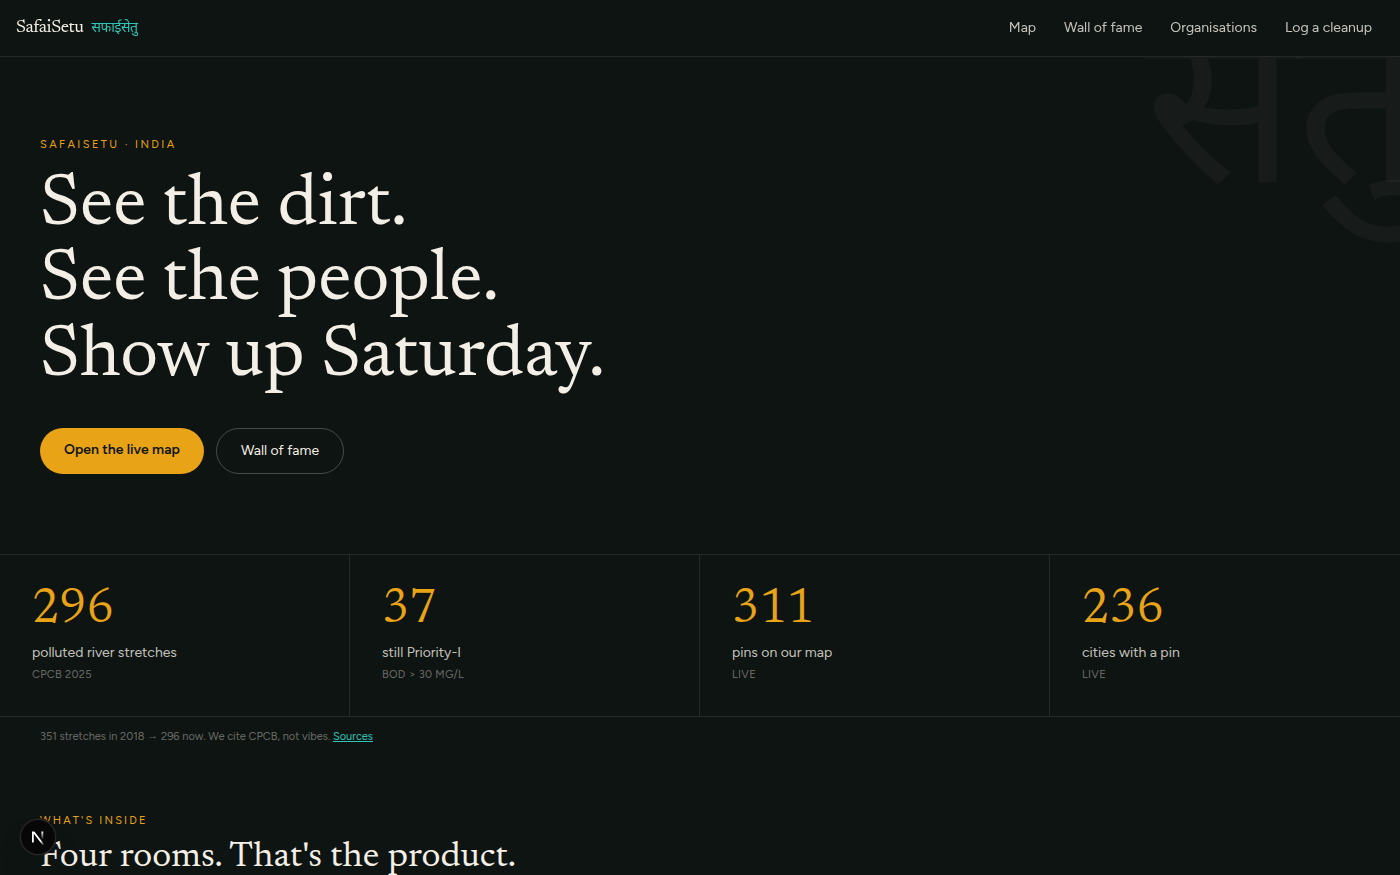
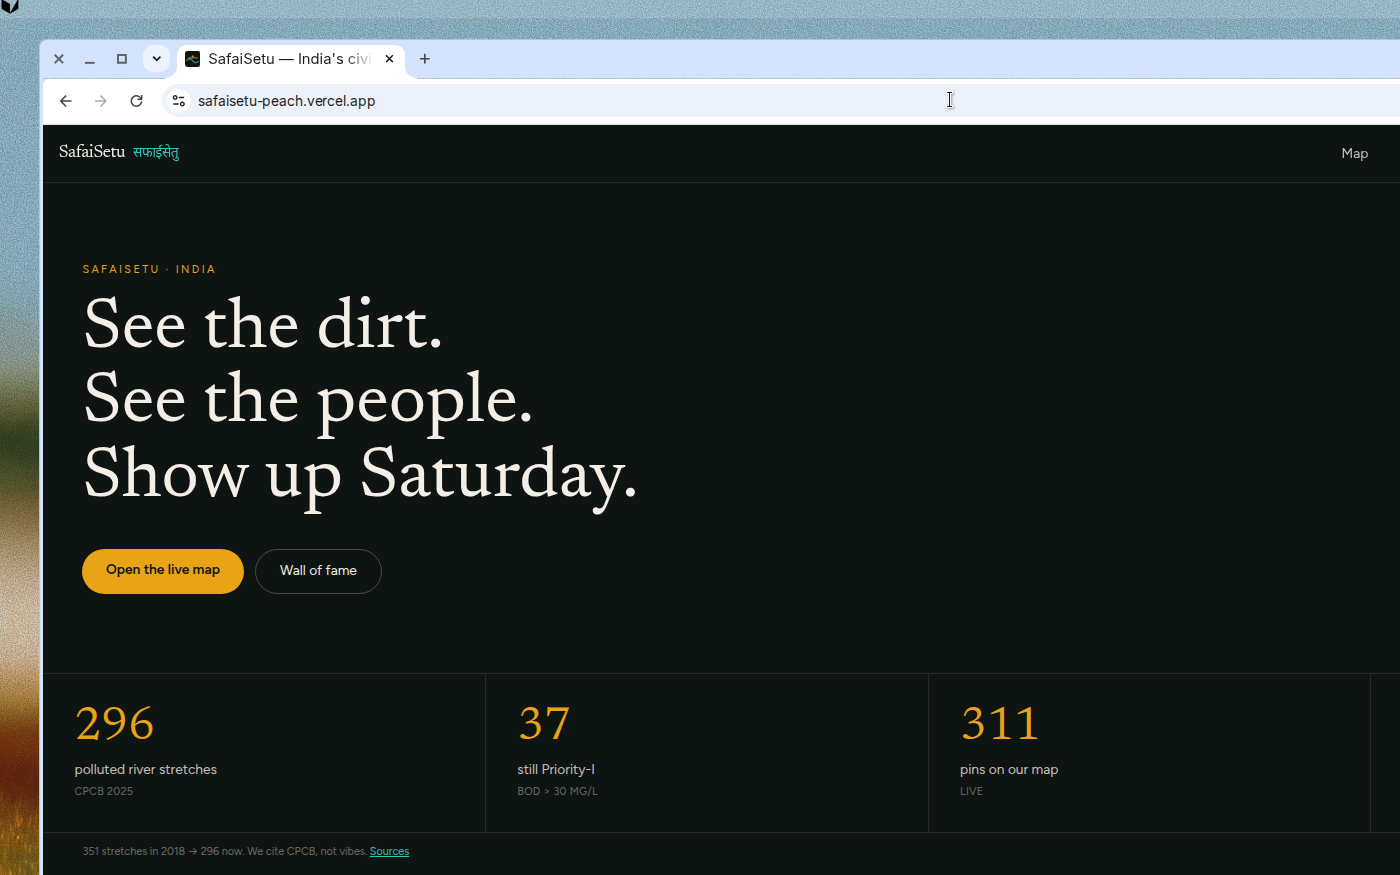
Update SafaiSetu to Live status with fresh deployment (#4)
- Set liveUrl to https://safaisetu-peach.vercel.app
- Update status from 'In Development' to 'Live'
- Refresh delivery text to reflect shipped product
- Replace screenshots with fresh capture from live site
- Add Moviefy GitHub repository URL

diff --git a/src/lib/projects.ts b/src/lib/projects.ts
@@ -33,7 +33,7 @@ export const projects: Project[] = [
     height: 875,
     services: ["Product design", "AI feature design", "Full-stack build"],
     liveUrl: "https://moviefy-gules.vercel.app/",
-    githubUrl: null,
+    githubUrl: "https://github.com/Pixelora-org/moviefy",
     featured: true,
     status: "Live",
     kind: "product",
@@ -74,15 +74,15 @@ export const projects: Project[] = [
     width: 1400,
     height: 875,
     services: ["Product design", "Interactive mapping", "Full-stack build"],
-    liveUrl: null,
+    liveUrl: "https://safaisetu-peach.vercel.app",
     githubUrl: "https://github.com/Pixelora-org/SafaiSetu",
     featured: false,
-    status: "In Development",
+    status: "Live",
     kind: "product",
     brief:
       "People want to help with environmental cleanup but don't know where to start, who's organizing, or how their efforts fit the bigger picture.",
     delivery:
-      "Pixelora is building SafaiSetu as a national clearinghouse: live stats, organization directory, featured stories, and a this-weekend CTA that turns intent into action.",
+      "Pixelora shipped SafaiSetu as a national clearinghouse: live stats, organization directory, featured stories, and a this-weekend CTA that turns intent into action.",
   },
   {
     id: "chirayu-health",
